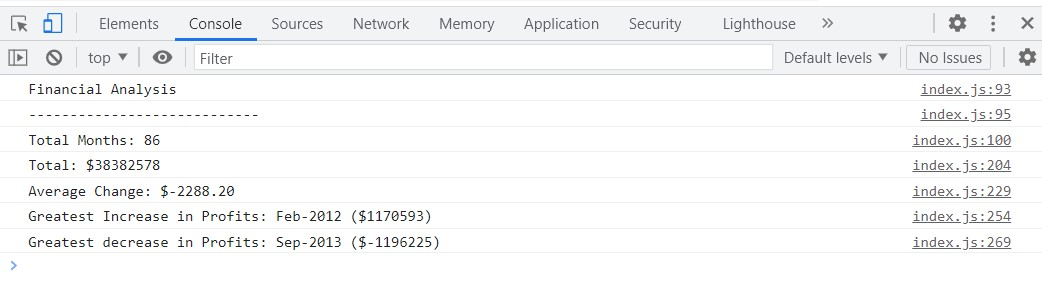
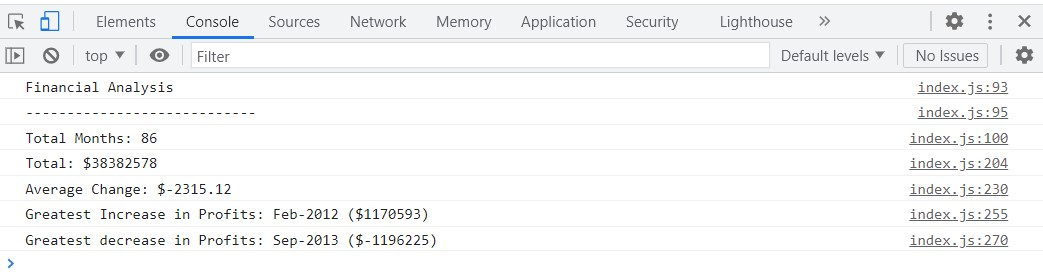
updated calc with a reduced number of month for average change and updated screenshot in README

diff --git a/index.js b/index.js
@@ -224,7 +224,8 @@ for (var i = 1; i < finances.length; i++) {
   previousAmount = currentAmount;
 //   console.log("new previous amount which was the current amt entry: " + previousAmount);
 }
-var averageChange = totalChange / finances.length;
+// Divide by 85 months instead of 86 due to comparison being between 2 months
+var averageChange = totalChange / (finances.length- 1);
 averageChange = averageChange.toFixed(2);
 console.log("Average Change: " +"$" + averageChange);
 
